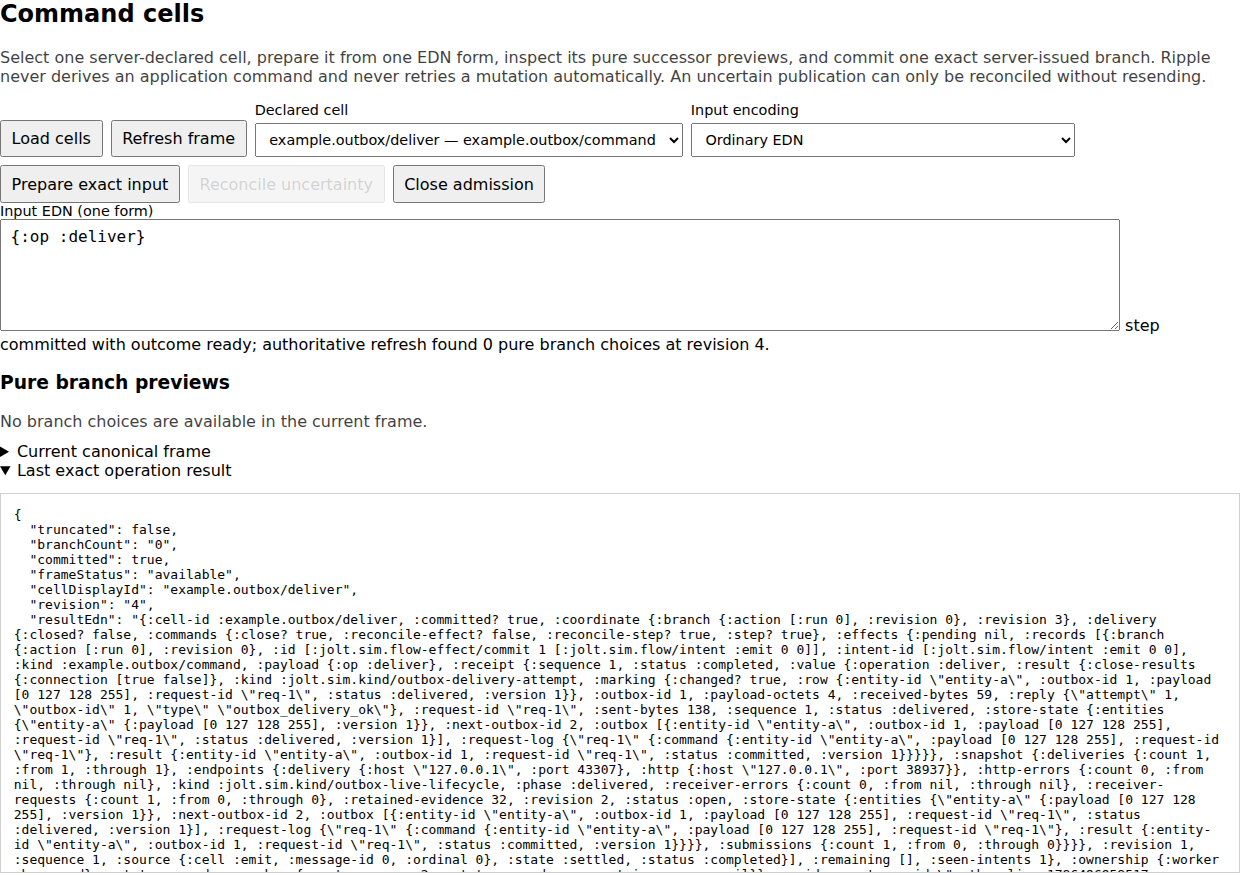
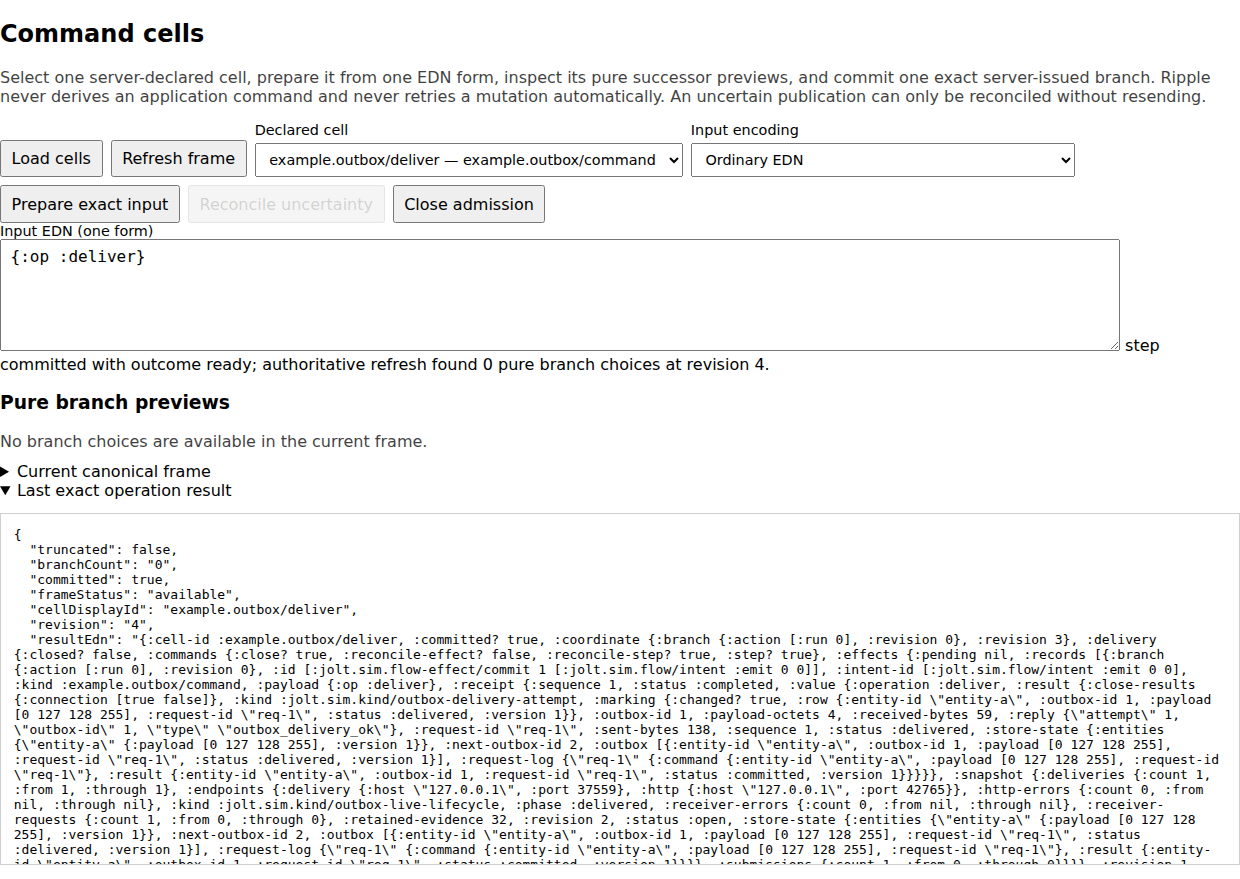
fix(ripple): contain command cell evidence

Changed region(s): [[0.0, 0.3711, 1.0, 1.0], [0.0, 0.0, 0.9806, 0.3093]]

diff --git a/viewer/resources/jolt/sim/viewer.html b/viewer/resources/jolt/sim/viewer.html
@@ -53,9 +53,12 @@
     .workbench-item > header { border: 0; padding: 0; display: flex; gap: .7rem; align-items: center; flex-wrap: wrap; }
     .workbench-item > header h3 { margin: 0 auto 0 0; }
     .workbench-item-meta { font-family: ui-monospace, monospace; font-size: .85rem; opacity: .8; }
+    #command-cell-panel { min-width: 0; max-width: 100%; overflow: hidden; }
     #command-cell-controls { display: flex; gap: .5rem; align-items: end; flex-wrap: wrap; }
     #command-cell-controls label { min-width: min(24rem, 100%); }
+    #command-cell-controls select { max-width: 100%; }
     #command-cell-input { width: min(100%, 70rem); min-height: 7rem; box-sizing: border-box; font-family: ui-monospace, monospace; }
+    #command-cell-panel pre { max-width: 100%; box-sizing: border-box; overflow-wrap: anywhere; }
     #command-cell-branches { list-style: none; margin: .7rem 0; padding: 0; display: grid; gap: .55rem; }
     .command-cell-branch { border-left: .3rem solid #678; background: #8881; padding: .55rem .7rem; }
     .command-cell-branch button { width: 100%; text-align: left; }
